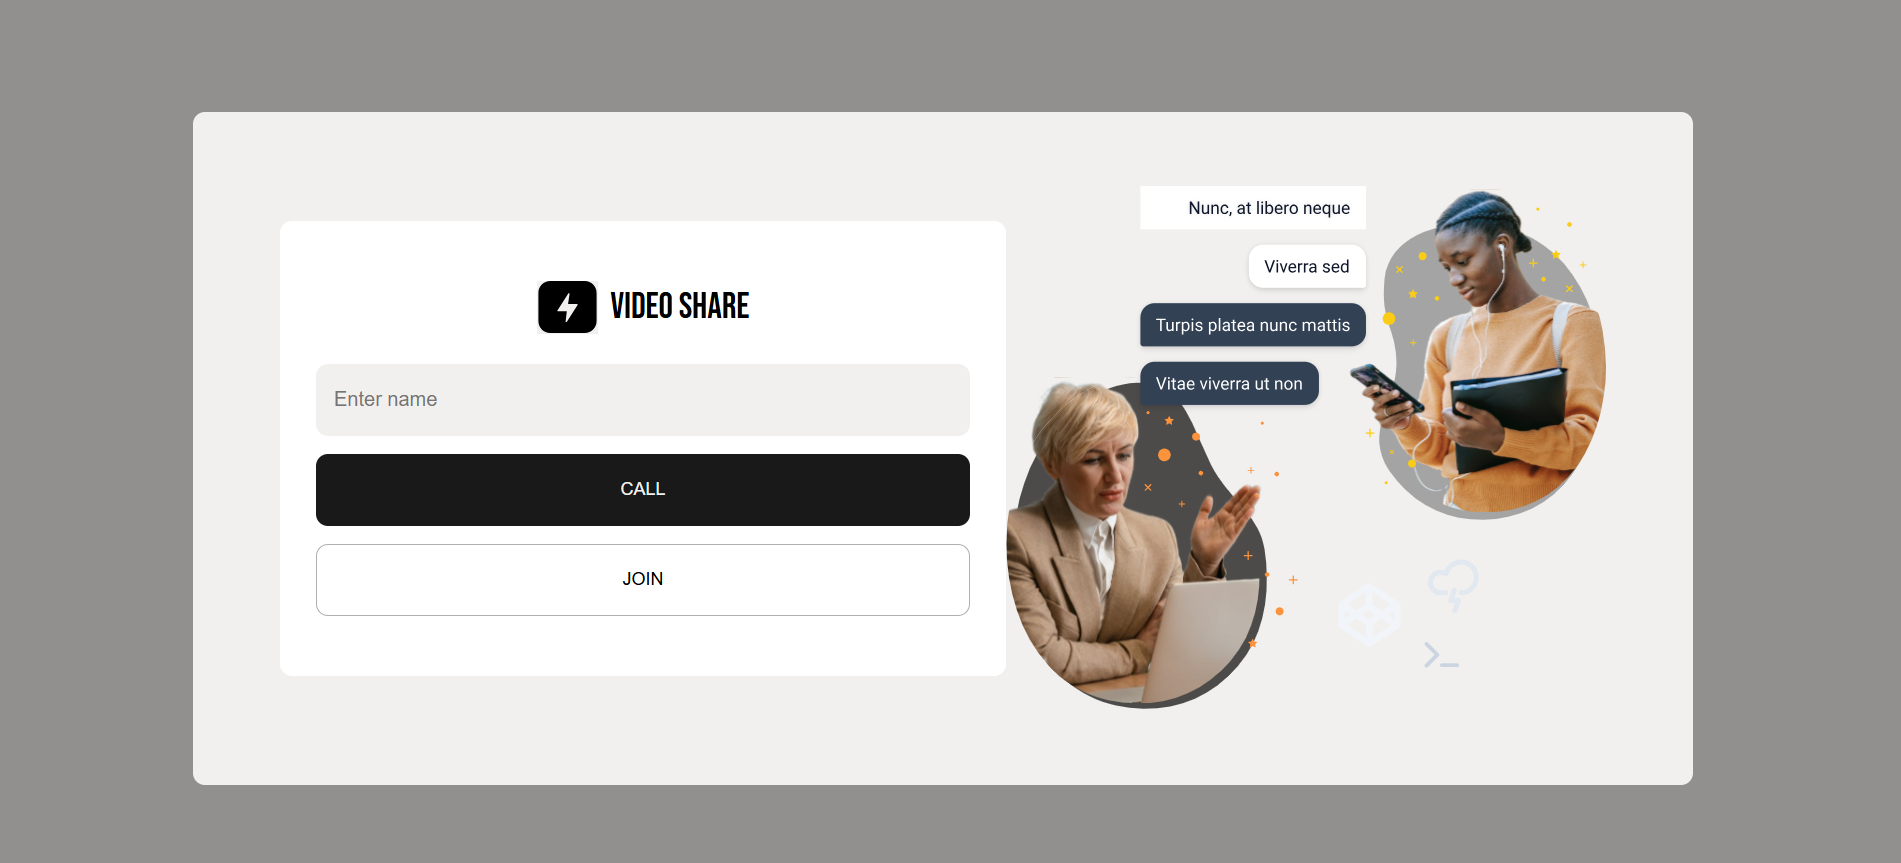
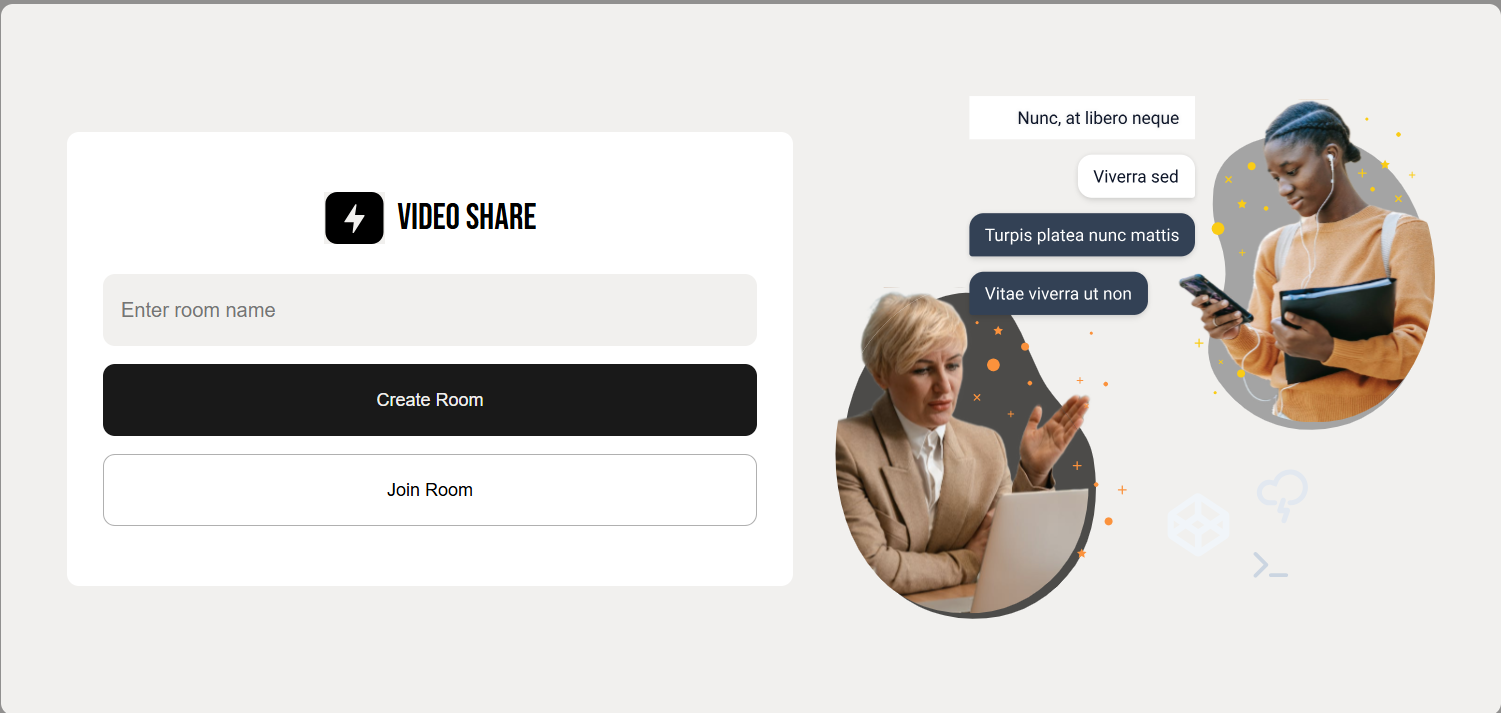
updated readme

diff --git a/README.md b/README.md
@@ -77,8 +77,8 @@ https://localhost:8000/index.html
 ### Step 1: Initiate a Call
 
 - Open the app in a browser (e.g., `http://localhost:8000/index.html`)
-- Enter your **name**
-- Click the **CALL** button  
+- Enter the **room Name**
+- Click the **Create Room** button  
   You will be redirected to a waiting screen.
 
 ### Step 2: Join a Call
@@ -86,17 +86,9 @@ https://localhost:8000/index.html
 ![homepage](assets/image.png)
 
 - Open the same app in another browser window or on another device
-- Enter your **name**
-- Click the **JOIN** button  
-   You’ll be taken to a screen where you can see the list of users available to call.
-  ![calls](assets/jion.png)
-
-### Step 3: Start the Call
-
-- Select the user you want to connect with.
-- The call will begin once the connection is established.
-
----
+- Enter the **room Name**
+- Click the **Join Room** button
+  ![calls](assets/join.png)
 
 ## 🔧 Running the App on Other Devices (Local Network Access)
 
